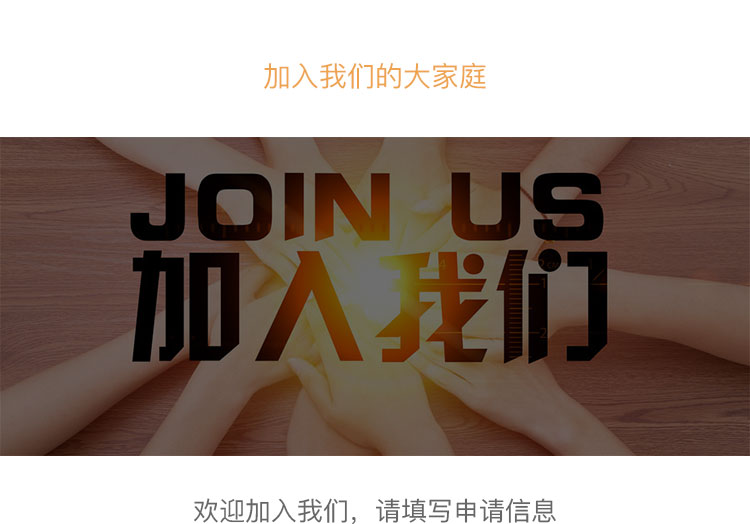
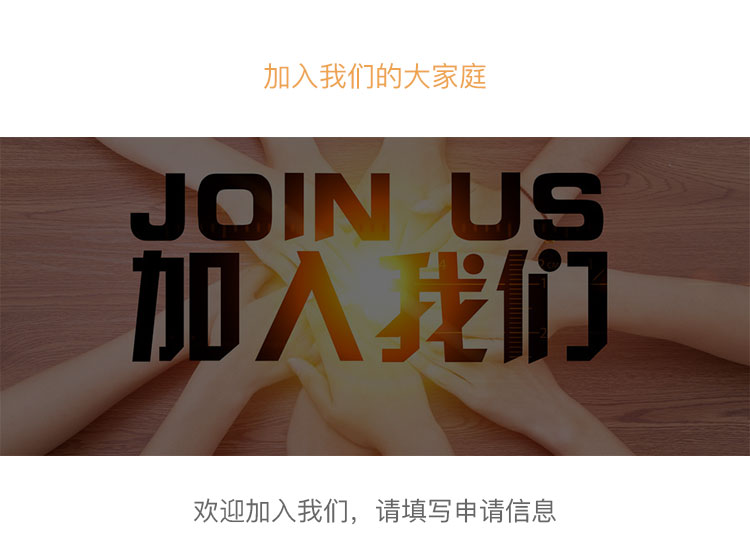
样式调整

diff --git a/JLCS/Home/View/User/info.html b/JLCS/Home/View/User/info.html
@@ -211,10 +211,11 @@ a{
                                   <span style="display:inline-block;font-size: 18px;color:green;margin-top:10px;">基本信息:</span><br/>
                                   <form action="{:U('edit_info')}" method="post" onsubmit="return checksbmit()">
                                       <input type="hidden" name="id" value="{$users.id}">
-                                      <div style="position: relative;left:20px;font-size: 15px;color:black;font-weight: bold;margin-top: 10px;height: 20px;"> 用&nbsp;&nbsp;户&nbsp;&nbsp;名: <input type="text" name="name" value="{$users.name}" style="margin-left:30px;width: 240px;height: 25px;" class="name"></br></div>
+                                      <div style="position: relative;left:20px;font-size: 15px;color:black;font-weight: bold;margin-top: 10px;height: 20px;"> 账&nbsp;&nbsp;&nbsp;&nbsp;&nbsp;&nbsp;&nbsp;号: <input type="text" name="name" value="{$users.name}" style="margin-left:32px;width: 240px;height: 25px;" class="name"></br></div>
                                       <div style="position: relative;left:20px;font-size: 15px;color:black;font-weight: bold;margin-top: 20px;height: 20px;"> 密&nbsp;&nbsp;&nbsp;&nbsp;&nbsp;&nbsp;&nbsp;码: <input type="password" name="password" value="" style="width:240px;height: 25px;margin-left:32px;" placeholder="不填,默认不修改" class="pssword"></br></div>
                                       <div style="position: relative;left:20px;font-size: 15px;color:black;font-weight: bold;margin-top: 20px;height: 20px;"> 注册时间:&nbsp;&nbsp;&nbsp;&nbsp;&nbsp;&nbsp;&nbsp;&nbsp;&nbsp;{$users.regtime}</br></div>
-                                      <div style="position: relative;left:20px;font-size: 15px;color:black;font-weight: bold;margin-top: 10px;height: 20px;"> 电&nbsp;&nbsp;&nbsp;&nbsp;&nbsp;&nbsp;&nbsp;话: <input type="text" name="phone" value="{$users.phone}" style="margin-left:31px;width: 240px;height: 25px;" placeholder="请输入您的电话" class="phone"></br></div>
+                                      <div style="position: relative;left:20px;font-size: 15px;color:black;font-weight: bold;height: 20px;"> 收&nbsp;&nbsp;件&nbsp;&nbsp;人: <input type="text" name="relname" value="{$user_infos.relname}" style="margin-left:30px;width: 240px;height: 25px;" class="relname"></br></div>
+                                      <div style="position: relative;left:20px;font-size: 15px;color:black;font-weight: bold;margin-top:10px;height: 20px;"> 电&nbsp;&nbsp;&nbsp;&nbsp;&nbsp;&nbsp;&nbsp;话: <input type="text" name="phone" value="{$users.phone}" style="margin-left:31px;width: 240px;height: 25px;" placeholder="请输入您的电话" class="phone"></br></div>
                                       <div style="position: relative;left:19px;font-size: 15px;color:black;font-weight: bold;margin-top: 20px;height: 20px;"> 代&nbsp;&nbsp;理&nbsp;&nbsp;商: <input type="text" name="agent" value="{$users.agent}" style="margin-left:30px;width: 240px;height: 25px;" placeholder="请输入代理商编号" class="agent"></br></div>
                                       <div style="position: relative;left:19px;font-size:15px;color:black;font-weight: bold;margin-top: 20px;height:20px;"> 积&nbsp;&nbsp;&nbsp;&nbsp;&nbsp;&nbsp;&nbsp;分: <input type="text" value="5000" disabled style="margin-left:31px;width:240px;height: 25px;border: none;"></br></div>
                                       <div style="position: relative;left:20px;font-size: 15px;color:black;font-weight: bold;margin-top: 20px;height: 20px;">

diff --git a/JLCS/Mobile/View/Dis/index.html b/JLCS/Mobile/View/Dis/index.html
@@ -58,7 +58,7 @@
 		</header>
 
 		<section class="banner">
-			<img src="__PUBLIC__/static/images/dis.png">
+			<img src="__PUBLIC__/static/images/dis.jpg">
 		</section>
 
 		<div class="about1">
@@ -66,23 +66,23 @@
 				<div class="row">
 					<div class="about1_top col-lg-12 col-md-12 col-sm-12 col-xs-12">
 						<div class="col-lg-6 col-md-6 col-sm-12 col-xs-12">
-							<img src="__PUBLIC__/static/images/dis2.png">
+							<img src="__PUBLIC__/static/images/dis2.jpg">
 						</div>
 						<div class="col-lg-6 col-md-6 col-sm-12 col-xs-12">
-							<img src="__PUBLIC__/static/images/dis3.png">
+							<img src="__PUBLIC__/static/images/dis3.jpg">
 						</div>
 						<div class="col-lg-6 col-md-6 col-sm-12 col-xs-12">
-							<img src="__PUBLIC__/static/images/dis4.png">
+							<img src="__PUBLIC__/static/images/dis4.jpg">
 						</div>
 						<div class="col-lg-6 col-md-6 col-sm-12 col-xs-12">
-							<img src="__PUBLIC__/static/images/dis5.png">
+							<img src="__PUBLIC__/static/images/dis5.jpg">
 						</div>
 						<div class="col-lg-6 col-md-6 col-sm-12 col-xs-12">						
 							<input type="submit" value="我要认捐" style="float: right;background-color: #da2828;color: white;border: none;width: 90px;height: 25px;border-bottom-left-radius: 5px;border-top-left-radius: 5px;">
-							<img src="__PUBLIC__/static/images/dis6.png">						
+							<img src="__PUBLIC__/static/images/dis6.jpg">						
 						</div>
 						<div class="col-lg-6 col-md-6 col-sm-12 col-xs-12">
-							<img src="__PUBLIC__/static/images/dis7.png">
+							<img src="__PUBLIC__/static/images/dis7.jpg">
 						</div>
 						<div class="col-lg-6 col-md-6 col-sm-12 col-xs-12">
 							<img src="__PUBLIC__/static/images/dis8.jpg">
@@ -130,7 +130,7 @@
 							</ul>
 						</div>
 						<div class="footera-sg">
-							<p class="footera-sgp">公司名称：通则久&nbsp;&nbsp;&nbsp;联系电话：0519-8324-7330&nbsp;&nbsp;&nbsp;地址：江苏省常州市新北区九龙路98号</p>
+							<p class="footera-sgp">公司名称：通则久&nbsp;&nbsp;&nbsp;联系电话：400-096-8879&nbsp;&nbsp;&nbsp;地址：江苏省常州市新北区九龙路98号</p>
 							<p class="footera_p">@2017-2027 通则久&nbsp;&nbsp;苏ICP证000000号 苏公网备111012066666611号</p>
 
 						</div>

diff --git a/JLCS/Mobile/View/Dis/dis.html b/JLCS/Mobile/View/Dis/dis.html
@@ -57,7 +57,7 @@
 		</header>
 
 		<section class="banner">
-			<img src="__PUBLIC__/static/images/dis.png">
+			<img src="__PUBLIC__/static/images/dis.jpg">
 		</section>
 
 		<div class="about1">
@@ -65,23 +65,23 @@
 				<div class="row">
 					<div class="about1_top col-lg-12 col-md-12 col-sm-12 col-xs-12">
 						<div class="col-lg-6 col-md-6 col-sm-12 col-xs-12">
-							<img src="__PUBLIC__/static/images/dis2.png">
+							<img src="__PUBLIC__/static/images/dis2.jpg">
 						</div>
 						<div class="col-lg-6 col-md-6 col-sm-12 col-xs-12">
-							<img src="__PUBLIC__/static/images/dis3.png">
+							<img src="__PUBLIC__/static/images/dis3.jpg">
 						</div>
 						<div class="col-lg-6 col-md-6 col-sm-12 col-xs-12">
-							<img src="__PUBLIC__/static/images/dis4.png">
+							<img src="__PUBLIC__/static/images/dis4.jpg">
 						</div>
 						<div class="col-lg-6 col-md-6 col-sm-12 col-xs-12">
-							<img src="__PUBLIC__/static/images/dis5.png">
+							<img src="__PUBLIC__/static/images/dis5.jpg">
 						</div>
 						<div class="col-lg-6 col-md-6 col-sm-12 col-xs-12">
 							<a href="{:U('Dis/dis_regist')}"><input type="button" value="我要分销" style="float: right;background-color: #da2828;color: white;border: none;width: 90px;height: 25px;border-bottom-left-radius: 5px;border-top-left-radius: 5px;" id="to_reg"></a>
-							<img src="__PUBLIC__/static/images/dis6.png">						
+							<img src="__PUBLIC__/static/images/dis6.jpg">						
 						</div>
 						<div class="col-lg-6 col-md-6 col-sm-12 col-xs-12">
-							<img src="__PUBLIC__/static/images/dis7.png">
+							<img src="__PUBLIC__/static/images/dis7.jpg">
 						</div>
 
 				</div>
@@ -122,7 +122,7 @@
 							</ul>
 						</div>
 						<div class="footera-sg">
-							<p class="footera-sgp">公司名称：通则久&nbsp;&nbsp;&nbsp;联系电话：0519-8324-7330&nbsp;&nbsp;&nbsp;地址：江苏省常州市新北区九龙路98号</p>
+							<p class="footera-sgp">公司名称：通则久&nbsp;&nbsp;&nbsp;联系电话：400-096-8879&nbsp;&nbsp;&nbsp;地址：江苏省常州市新北区九龙路98号</p>
 							<p class="footera_p">@2017-2027 通则久&nbsp;&nbsp;苏ICP证000000号 苏公网备111012066666611号</p>
 
 						</div>

diff --git a/JLCS/WapHome/View/Index/index.html b/JLCS/WapHome/View/Index/index.html
@@ -101,27 +101,7 @@
 	            </div>
 	            <div class="swiper-pagination"></div>
 	        </div>
-			<!--<div class="mui-top clearfloat">
-				<div class="list fl">
-					<a href="report.html">
-						<img src="__PUBLIC__/upload/ylh-icon1.png"/>
-						<p class="tit">每日签到</p>
-					</a>
-				</div>
-				<div class="list fl">
-					<a href="integral.html">
-						<img src="__PUBLIC__/upload/ylh-icon2.png"/>
-						<p class="tit">积分商城</p>
-					</a>
-				</div>
-				<div class="list fl">
-					<a href="join.html">
-						<img src="__PUBLIC__/upload/ylh-icon3.png"/>
-						<p class="tit">线下体验馆</p>
-					</a>
-				</div>
-			</div>-->
-			
+
 			<div class="news clearfloat">
 				<div class="left fl clearfloat">
 					<img src="__PUBLIC__/img/rmen.png"/>
@@ -137,30 +117,7 @@
 					</div>
 				</div>
 			</div>
-			
-			<!--<div class="soffer clearfloat">
-				<div class="list fl">
-					<a href="offer.html">
-						<p class="tit">特价促销</p>
-						<p class="fu-tit">天天特价，爽不停</p>
-						<img src="__PUBLIC__/upload/2.jpg"/>
-					</a>
-				</div>
-				<div class="list fl">
-					<a href="#">
-						<p class="tit">人气热卖</p>
-						<p class="fu-tit">热卖单品</p>
-						<img src="__PUBLIC__/upload/2.jpg"/>
-					</a>
-				</div>
-				<div class="list fl">
-					<a href="#">
-						<p class="tit">新用户专享</p>
-						<p class="fu-tit">开启完美的购物体验</p>
-						<img src="__PUBLIC__/upload/2.jpg"/>
-					</a>
-				</div>
-			</div>-->
+
 			<div class="share clearfloat">
 				<a href="#">
 					<img src="__PUBLIC__/upload/4.jpg"/>

diff --git a/JLCS/JLHome/View/Index/baokam.html b/JLCS/JLHome/View/Index/baokam.html
@@ -108,7 +108,7 @@
 				<p style="margin-left: 150px;font-size: 16px;color: #dadada;"><strong>友情链接:</strong> <a href="http://www.tzjfoxiao.com/" target="_blank"><b>通则久佛教文化网</b></a> <a href="http://www.chinabuddhism.com.cn/" target="_blank"><b>中国佛教协会</b></a> <a href="http://www.fjnet.com/" target="_blank"><b>佛教在线</b></a> <a href="http://www.liaotuo.org/" target="_blank"><b>弘善佛教</b></a> <a href="http://www.pusa123.com/" target="_blank"><b>菩萨在线</b></a> <a href="http://www.simiao.cn/" target="_blank"><b>中国寺庙网</b></a> <a href="http://www.wuys.com" target="_blank"><b>佛学研究网</b></a></p>
 				<p style="margin-left: 223px;font-size: 16px;color: #dadada;"><a href="#"><b>少林寺</b></a> <a href="http://www.fomen123.com/" target="_blank"><b>佛门网</b></a> <a href="http://www.lingyinsi.org/" target="_blank"><b>灵隐寺</b></a></p>
 			</div>
-			<span><img src="__PUBLIC__/jlimages/address.png"/><b>江苏省常州市新北区九龙路98号 </b> <img src="__PUBLIC__/jlimages/phone.png"/><strong>0519-8324 7330</strong></span>
+			<span><img src="__PUBLIC__/jlimages/address.png"/><b>江苏省常州市新北区九龙路98号 </b> <img src="__PUBLIC__/jlimages/phone.png"/><strong>400-096-8879</strong></span>
 			<hr color="#333333" size="1"/>
 			<span style="color: #999999;">版权所有:<a href="#">上海通则久文化</a> 沪ICP备16045553号-2</span>
 		</div>

diff --git a/JLCS/JLHome/View/Index/culture.html b/JLCS/JLHome/View/Index/culture.html
@@ -103,7 +103,7 @@
 				<p style="margin-left: 150px;font-size: 16px;color: #dadada;"><strong>友情链接:</strong> <a href="http://www.tzjfoxiao.com/" target="_blank"><b>通则久佛教文化网</b></a> <a href="http://www.chinabuddhism.com.cn/" target="_blank"><b>中国佛教协会</b></a> <a href="http://www.fjnet.com/" target="_blank"><b>佛教在线</b></a> <a href="http://www.liaotuo.org/" target="_blank"><b>弘善佛教</b></a> <a href="http://www.pusa123.com/" target="_blank"><b>菩萨在线</b></a> <a href="http://www.simiao.cn/" target="_blank"><b>中国寺庙网</b></a> <a href="http://www.wuys.com" target="_blank"><b>佛学研究网</b></a></p>
 				<p style="margin-left: 223px;font-size: 16px;color: #dadada;"><a href="#"><b>少林寺</b></a> <a href="http://www.fomen123.com/" target="_blank"><b>佛门网</b></a> <a href="http://www.lingyinsi.org/" target="_blank"><b>灵隐寺</b></a></p>
 			</div>
-			<span><img src="__PUBLIC__/jlimages/address.png"/><b>江苏省常州市新北区九龙路98号 </b> <img src="__PUBLIC__/jlimages/phone.png"/><strong>0519-8324 7330</strong></span>
+			<span><img src="__PUBLIC__/jlimages/address.png"/><b>江苏省常州市新北区九龙路98号 </b> <img src="__PUBLIC__/jlimages/phone.png"/><strong>400-096-8879</strong></span>
 			<hr color="#333333" size="1"/>
 			<span style="color: #999999;">版权所有:<a href="#">上海通则久文化</a> 沪ICP备16045553号-2</span>
 		</div>

diff --git a/JLCS/JLHome/View/Index/inform.html b/JLCS/JLHome/View/Index/inform.html
@@ -104,7 +104,7 @@
 				<p style="margin-left: 150px;font-size: 16px;color: #dadada;"><strong>友情链接:</strong> <a href="http://www.tzjfoxiao.com/" target="_blank"><b>通则久佛教文化网</b></a> <a href="http://www.chinabuddhism.com.cn/" target="_blank"><b>中国佛教协会</b></a> <a href="http://www.fjnet.com/" target="_blank"><b>佛教在线</b></a> <a href="http://www.liaotuo.org/" target="_blank"><b>弘善佛教</b></a> <a href="http://www.pusa123.com/" target="_blank"><b>菩萨在线</b></a> <a href="http://www.simiao.cn/" target="_blank"><b>中国寺庙网</b></a> <a href="http://www.wuys.com" target="_blank"><b>佛学研究网</b></a></p>
 				<p style="margin-left: 223px;font-size: 16px;color: #dadada;"><a href="#"><b>少林寺</b></a> <a href="http://www.fomen123.com/" target="_blank"><b>佛门网</b></a> <a href="http://www.lingyinsi.org/" target="_blank"><b>灵隐寺</b></a></p>
 			</div>
-			<span><img src="__PUBLIC__/jlimages/address.png"/><b>江苏省常州市新北区九龙路98号 </b> <img src="__PUBLIC__/jlimages/phone.png"/><strong>0519-8324 7330</strong></span>
+			<span><img src="__PUBLIC__/jlimages/address.png"/><b>江苏省常州市新北区九龙路98号 </b> <img src="__PUBLIC__/jlimages/phone.png"/><strong>400-096-8879</strong></span>
 			<hr color="#333333" size="1"/>
 			<span style="color: #999999;">版权所有:<a href="#">上海通则久文化</a> 沪ICP备16045553号-2</span>
 		</div>

diff --git a/JLCS/JLHome/View/Index/study.html b/JLCS/JLHome/View/Index/study.html
@@ -104,7 +104,7 @@
 				<p style="margin-left: 150px;font-size: 16px;color: #dadada;"><strong>友情链接:</strong> <a href="http://www.tzjfoxiao.com/" target="_blank"><b>通则久佛教文化网</b></a> <a href="http://www.chinabuddhism.com.cn/" target="_blank"><b>中国佛教协会</b></a> <a href="http://www.fjnet.com/" target="_blank"><b>佛教在线</b></a> <a href="http://www.liaotuo.org/" target="_blank"><b>弘善佛教</b></a> <a href="http://www.pusa123.com/" target="_blank"><b>菩萨在线</b></a> <a href="http://www.simiao.cn/" target="_blank"><b>中国寺庙网</b></a> <a href="http://www.wuys.com" target="_blank"><b>佛学研究网</b></a></p>
 				<p style="margin-left: 223px;font-size: 16px;color: #dadada;"><a href="#"><b>少林寺</b></a> <a href="http://www.fomen123.com/" target="_blank"><b>佛门网</b></a> <a href="http://www.lingyinsi.org/" target="_blank"><b>灵隐寺</b></a></p>
 			</div>
-			<span><img src="__PUBLIC__/jlimages/address.png"/><b>江苏省常州市新北区九龙路98号 </b> <img src="__PUBLIC__/jlimages/phone.png"/><strong>0519-8324 7330</strong></span>
+			<span><img src="__PUBLIC__/jlimages/address.png"/><b>江苏省常州市新北区九龙路98号 </b> <img src="__PUBLIC__/jlimages/phone.png"/><strong>400-096-8879</strong></span>
 			<hr color="#333333" size="1"/>
 			<span style="color: #999999;">版权所有:<a href="#">上海通则久文化</a> 沪ICP备16045553号-2</span>
 		</div>

diff --git a/JLCS/ZHHome/View/Index/baokam.html b/JLCS/ZHHome/View/Index/baokam.html
@@ -106,7 +106,7 @@
 				<p style="margin-left: 150px;font-size: 16px;color: #dadada;"><strong>友情链接:</strong> <a href="http://www.tzjfoxiao.com/" target="_blank"><b>通则久佛教文化网</b></a> <a href="http://www.chinabuddhism.com.cn/" target="_blank"><b>中国佛教协会</b></a> <a href="http://www.fjnet.com/" target="_blank"><b>佛教在线</b></a> <a href="http://www.liaotuo.org/" target="_blank"><b>弘善佛教</b></a> <a href="http://www.pusa123.com/" target="_blank"><b>菩萨在线</b></a> <a href="http://www.simiao.cn/" target="_blank"><b>中国寺庙网</b></a> <a href="http://www.wuys.com" target="_blank"><b>佛学研究网</b></a></p>
 				<p style="margin-left: 223px;font-size: 16px;color: #dadada;"><a href="#"><b>少林寺</b></a> <a href="http://www.fomen123.com/" target="_blank"><b>佛门网</b></a> <a href="http://www.lingyinsi.org/" target="_blank"><b>灵隐寺</b></a></p>
 			</div>
-			<span><img src="__PUBLIC__/jlimages/address.png"/><b>江苏省常州市新北区镇海路98号 </b> <img src="__PUBLIC__/jlimages/phone.png"/><strong>0519-8324 7330</strong></span>
+			<span><img src="__PUBLIC__/jlimages/address.png"/><b>江苏省常州市新北区镇海路98号 </b> <img src="__PUBLIC__/jlimages/phone.png"/><strong>400-096-8879</strong></span>
 			<hr color="#333333" size="1"/>
 			<span style="color: #999999;">版权所有:<a href="#">上海通则久文化</a> 沪ICP备16045553号-2</span>
 		</div>

diff --git a/JLCS/JLHome/View/Index/contents.html b/JLCS/JLHome/View/Index/contents.html
@@ -82,7 +82,7 @@
 				<p style="margin-left: 150px;font-size: 16px;color: #dadada;"><strong>友情链接:</strong> <a href="http://www.tzjfoxiao.com/" target="_blank"><b>通则久佛教文化网</b></a> <a href="http://www.chinabuddhism.com.cn/" target="_blank"><b>中国佛教协会</b></a> <a href="http://www.fjnet.com/" target="_blank"><b>佛教在线</b></a> <a href="http://www.liaotuo.org/" target="_blank"><b>弘善佛教</b></a> <a href="http://www.pusa123.com/" target="_blank"><b>菩萨在线</b></a> <a href="http://www.simiao.cn/" target="_blank"><b>中国寺庙网</b></a> <a href="http://www.wuys.com" target="_blank"><b>佛学研究网</b></a></p>
 				<p style="margin-left: 223px;font-size: 16px;color: #dadada;"><a href="#"><b>少林寺</b></a> <a href="http://www.fomen123.com/" target="_blank"><b>佛门网</b></a> <a href="http://www.lingyinsi.org/" target="_blank"><b>灵隐寺</b></a></p>
 			</div>
-			<span><img src="__PUBLIC__/jlimages/address.png"/><b>江苏省常州市新北区九龙路98号 </b> <img src="__PUBLIC__/jlimages/phone.png"/><strong>0519-8324 7330</strong></span>
+			<span><img src="__PUBLIC__/jlimages/address.png"/><b>江苏省常州市新北区九龙路98号 </b> <img src="__PUBLIC__/jlimages/phone.png"/><strong>400-096-8879</strong></span>
 			<hr color="#333333" size="1"/>
 			<span style="color: #999999;">版权所有:<a href="#">上海通则久文化</a> 沪ICP备16045553号-2</span>
 		</div>

diff --git a/JLCS/JLHome/View/Index/down.html b/JLCS/JLHome/View/Index/down.html
@@ -78,7 +78,7 @@
 				<p style="margin-left: 150px;font-size: 16px;color: #dadada;"><strong>友情链接:</strong> <a href="http://www.tzjfoxiao.com/" target="_blank"><b>通则久佛教文化网</b></a> <a href="http://www.chinabuddhism.com.cn/" target="_blank"><b>中国佛教协会</b></a> <a href="http://www.fjnet.com/" target="_blank"><b>佛教在线</b></a> <a href="http://www.liaotuo.org/" target="_blank"><b>弘善佛教</b></a> <a href="http://www.pusa123.com/" target="_blank"><b>菩萨在线</b></a> <a href="http://www.simiao.cn/" target="_blank"><b>中国寺庙网</b></a> <a href="http://www.wuys.com" target="_blank"><b>佛学研究网</b></a></p>
 				<p style="margin-left: 223px;font-size: 16px;color: #dadada;"><a href="#"><b>少林寺</b></a> <a href="http://www.fomen123.com/" target="_blank"><b>佛门网</b></a> <a href="http://www.lingyinsi.org/" target="_blank"><b>灵隐寺</b></a></p>
 			</div>
-			<span><img src="__PUBLIC__/jlimages/address.png"/><b>江苏省常州市新北区九龙路98号 </b> <img src="__PUBLIC__/jlimages/phone.png"/><strong>0519-8324 7330</strong></span>
+			<span><img src="__PUBLIC__/jlimages/address.png"/><b>江苏省常州市新北区九龙路98号 </b> <img src="__PUBLIC__/jlimages/phone.png"/><strong>400-096-8879</strong></span>
 			<hr color="#333333" size="1"/>
 			<span style="color: #999999;">版权所有:<a href="#">上海通则久文化</a> 沪ICP备16045553号-2</span>
 		</div>

diff --git a/JLCS/ZHHome/View/Index/contents.html b/JLCS/ZHHome/View/Index/contents.html
@@ -82,7 +82,7 @@
 				<p style="margin-left: 150px;font-size: 16px;color: #dadada;"><strong>友情链接:</strong> <a href="http://www.tzjfoxiao.com/" target="_blank"><b>通则久佛教文化网</b></a> <a href="http://www.chinabuddhism.com.cn/" target="_blank"><b>中国佛教协会</b></a> <a href="http://www.fjnet.com/" target="_blank"><b>佛教在线</b></a> <a href="http://www.liaotuo.org/" target="_blank"><b>弘善佛教</b></a> <a href="http://www.pusa123.com/" target="_blank"><b>菩萨在线</b></a> <a href="http://www.simiao.cn/" target="_blank"><b>中国寺庙网</b></a> <a href="http://www.wuys.com" target="_blank"><b>佛学研究网</b></a></p>
 				<p style="margin-left: 223px;font-size: 16px;color: #dadada;"><a href="#"><b>少林寺</b></a> <a href="http://www.fomen123.com/" target="_blank"><b>佛门网</b></a> <a href="http://www.lingyinsi.org/" target="_blank"><b>灵隐寺</b></a></p>
 			</div>
-			<span><img src="__PUBLIC__/jlimages/address.png"/><b>江苏省常州市新北区镇海路98号 </b> <img src="__PUBLIC__/jlimages/phone.png"/><strong>0519-8324 7330</strong></span>
+			<span><img src="__PUBLIC__/jlimages/address.png"/><b>江苏省常州市新北区镇海路98号 </b> <img src="__PUBLIC__/jlimages/phone.png"/><strong>400-096-8879</strong></span>
 			<hr color="#333333" size="1"/>
 			<span style="color: #999999;">版权所有:<a href="#">上海通则久文化</a> 沪ICP备16045553号-2</span>
 		</div>
